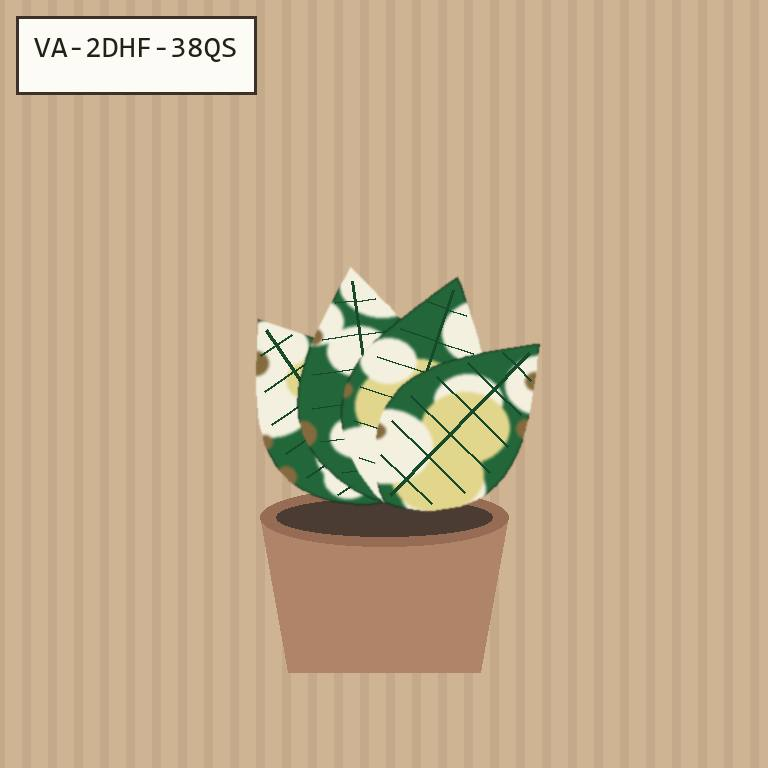
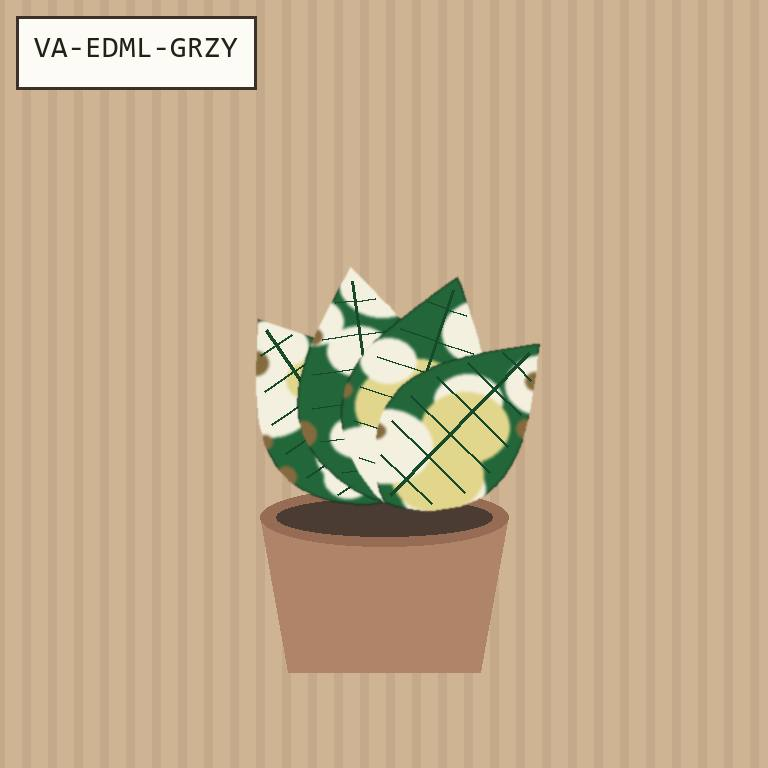
Pin each demo shipment's tracking number
The arrival token is derived from the tracking number, and the seed was
building that number from the escrow id. Ids move: a proof run, or a resumed
sheet, shifts them, and the pre-rendered plates then carry a token the contract
no longer expects. Three adjudications in a row were rejected for exactly that,
which looked like a leader failure and was not.

Each sheet now carries a fixed tracking number, shared by the seed and by the
plate generator, so what is drawn on the card is what the contract derives no
matter what order anything ran in.

Changed region(s): [[0.0, 0.0312, 0.3438, 0.125]]

diff --git a/scripts/make_specimens.py b/scripts/make_specimens.py
@@ -244,7 +244,7 @@ if __name__ == "__main__":
             "Four-leaf cutting, roughly 40% white sectorial variegation across the blades, no rot, "
             "rooted in sphagnum. Ships bare-root with a heat pack.",
             2,
-            0,
+            "VG-ALBO-41207",
         ),
         (
             "thai",
@@ -252,7 +252,7 @@ if __name__ == "__main__":
             "Five leaves, heavy variegation on every blade, over 55% cream tissue, immaculate "
             "condition. Established root system, no damage anywhere.",
             3.5,
-            1,
+            "VG-THAI-58311",
         ),
         (
             "spiritus",
@@ -260,15 +260,15 @@ if __name__ == "__main__":
             "Three healthy leaves, deep green, clean stem with no soft tissue. Grown on for two "
             "years, ships in perfect health.",
             5,
-            2,
+            "VG-SPIR-77042",
         ),
     ]
 
     tok = {}
-    for key, species, claim, price, escrow_id in SHEETS:
+    for key, species, claim, price, tracking in SHEETS:
         wei = int(round(price * 1e6)) * 10**12
         lt = listing_token(SEED_SELLER, species, claim, wei)
-        at = arrival_token(lt, f"VG-{100000 + escrow_id}")
+        at = arrival_token(lt, tracking)
         tok[key] = (lt, at)
         print(f"{key:10s} listing {lt}   arrival {at}")
     print()
